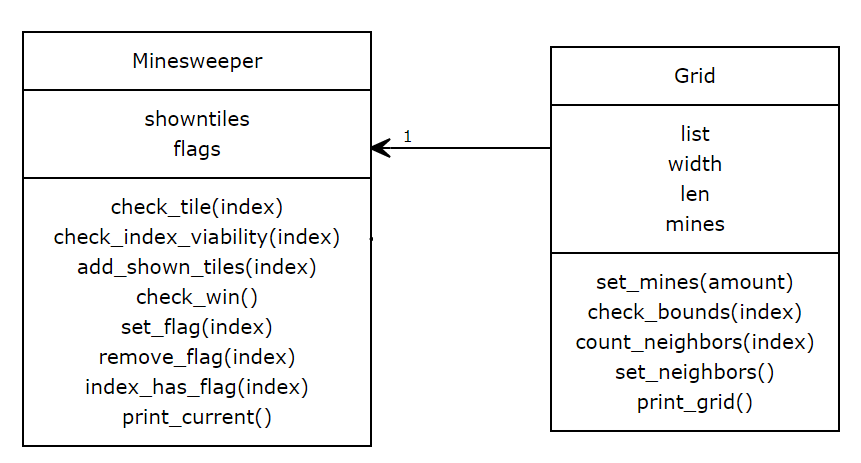
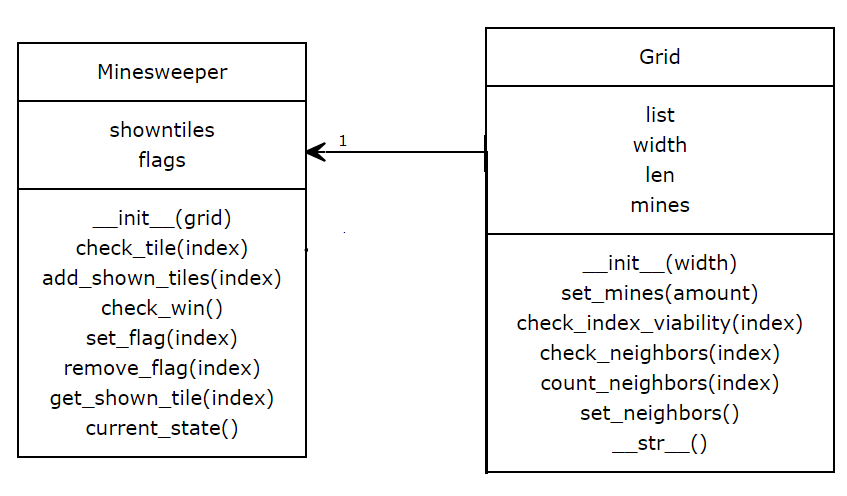
Update arkkitehtuuri and käyttöohje

diff --git a/dokumentaatio/kayttoohje.md b/dokumentaatio/kayttoohje.md
@@ -30,7 +30,7 @@ Pelin tavoitteena on selviytyä miinakentästä avaamalla ruutuja, jotta voi pä
 
 Tällä hetkellä ohjelma aukeaa suoraan näyttäen 3x3-kokoisen peliruudukon, jossa on piilossa 3 miinaa. Muun kokoisia ruudukoita ei ole vielä mahdollista valita.
 
-Käyttäjä voi avata ruudun klikkaamalla hiiren vasenta painiketta ruudun päällä. Kun hiiri on ruudun päällä, sen reunat ovat eri väriset. Klikatessa ruutua sen alta paljastuu joko miina, jolloin peli päättyy häviöön, tai numero, joka merkitsee viereisissä ruuduissa olevien miinojen määrää.
+Käyttäjä voi avata ruudun klikkaamalla hiiren vasenta painiketta ruudun päällä. Kun hiiri on ruudun päällä, sen reunat ovat keltaiset. Klikatessa ruutua sen alta paljastuu joko miina, jolloin peli päättyy häviöön, tai numero, joka merkitsee viereisissä ruuduissa olevien miinojen määrää.
 
 Avaamattoman ruudun voi merkitä lipulla painaen hiiren oikealla painikkeella. Lippu (F) kuvastaa ruutua, jonka alla pelaaja uskoo olevan miina.
 Samalla tavalla uudestaan klikkaamalla voi poistaa lipun ruudusta. Lippuja voi asettaa yhteensä yhtä monta kuin miinoja on ruudukossa.
@@ -40,4 +40,18 @@ Peli voitetaan jos kaikki miinat saadaan merkittyä oikein lipuilla ilman että 
 Peli hävitään jos pelaaja avaa ruudun, jossa oli miina. Tällöin ohjelma sulkeutuu hetken kuluttua.
 
 
+## Ohjeita tukevia kuvia
+
+Pelin alkutilanne, tyhjä 3x3 -ruudukko:
+
+![Aloitustilanne](./pygame_aloitus.png)
+
+Seuraavaa kuvaa varten on avattu 4 ruutua klikkaamalla, ja merkitty keskimmäinen ruutu lipulla (F). Hiiri on yläkeskimmäisen ruudun päällä,sen näkee keltaisista reunoista.
+
+![Peli](./pygame_pelitilanne.png)
+
+Avataan ruutu jossa on miina ja peli hävitään.
+Ohjelma sulkeutuu pian.
+
+![Häviö](./pygame_havio.png)
 

diff --git a/dokumentaatio/arkkitehtuuri.md b/dokumentaatio/arkkitehtuuri.md
@@ -1,5 +1,37 @@
+## Rakenne
+
+Ohjelman rakenne on eriytetty kahteen hakemistoon, UI ja Services.
+
+![Pakkauskaavio](./Pakkauskaavio.png)
+
+UI sisältää kaksi vaihtoehtoista käyttöliittymää, joista pygame_ui.py on graafinen ja cli.py sisältää komentorivikäyttöliittymän. Kumpikin näistä riippuu Services-hakemistossa olevista luokista.
+
+Services sisältää sovelluslogiikkaan kuuluvat luokat Minesweeper ja Grid.
+
+## Käyttöliittymä
+
+### GUI / Graafinen
+
+Tällä hetkellä graafinen käyttöliittymä piirtää 3x3-peliruudukon ja ei ole muita erillisiä näkymiä.
+
+### CLI / Komentorivi
+
+Komentorivikäyttöliittymässä on yksi näkymä ja kysytään käyttäjältä syötettä.
+
+## Sovelluslogiikka
+
+Sovelluslogiikan luokkia ovat Grid ja Minesweeper.
+
+Grid kuvaa ennen pelin aloittamista tehtyä peliruudukkoa johon on asetettu miinat ja laskettu miinojen vieressä oleville ruuduille naapurimiinojen määrä.
+
+Minesweeper sisältää pelitilanteeseen kuuluvat toiminnallisuudet kuten liput ja näytettävien ruutujen indeksit sekä näiden muokkaamisen sekä pelin voiton tarkistamisen.
+
 ![Luokkakaavio](./Luokkakaavio_entities.png)
 
-![Sekvenssikaavio](./Sequence_diagram.png)
+## Toiminnallisuudet
 
-In the current sequence diagram the CLI.play() function is not explained in detail, but it works in the current version of the program.
+### Komentorivikäyttöliittymä
+
+Sekvenssikaavio komentorivikäyttöliittymä-pelin ruudukon ja pelin (Minesweeper) alustamisesta, sekä karkea luonnos sen pelitoiminnallisuudesta ja luokkien suhteista kun CLI.play() suoriutuu eli peli on käynnissä.
+
+![Sekvenssikaavio](./Sequence_diagram.png)
